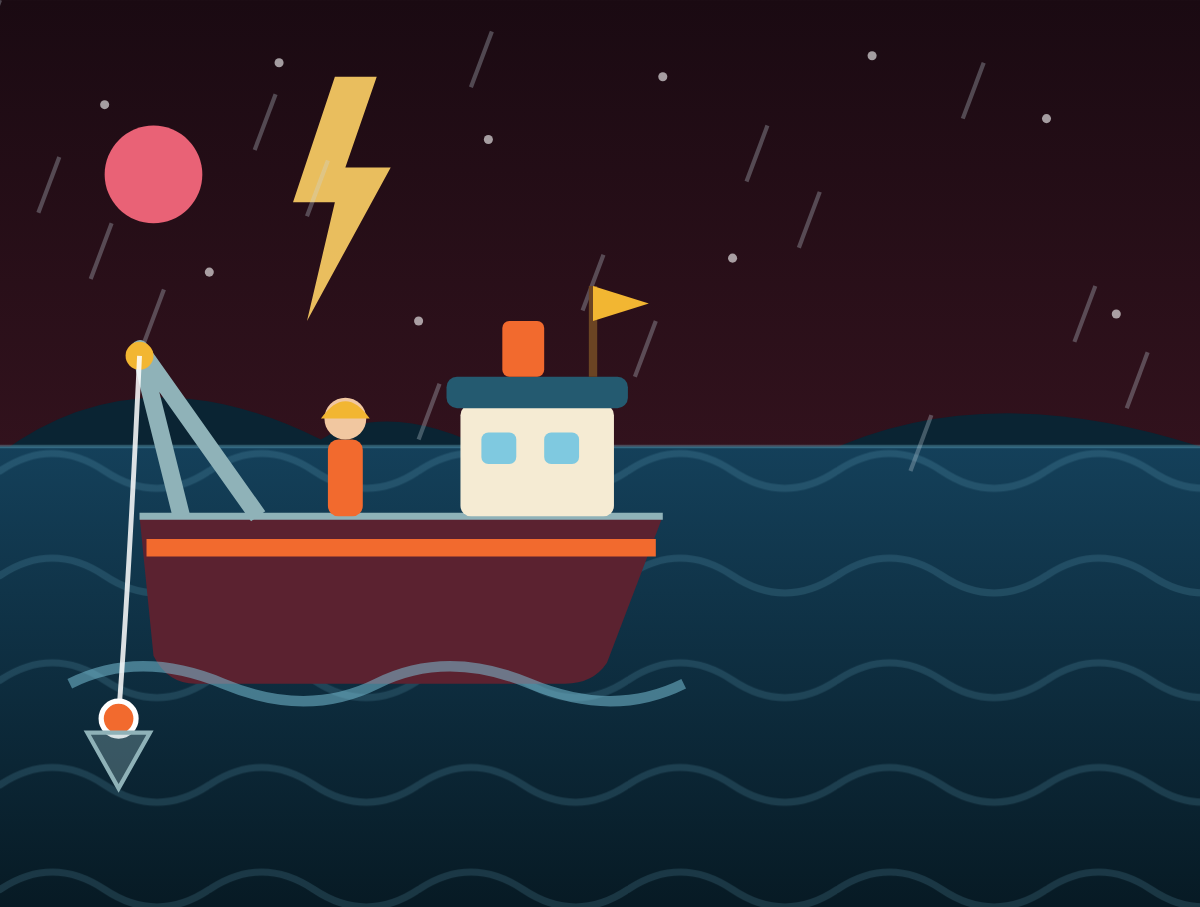
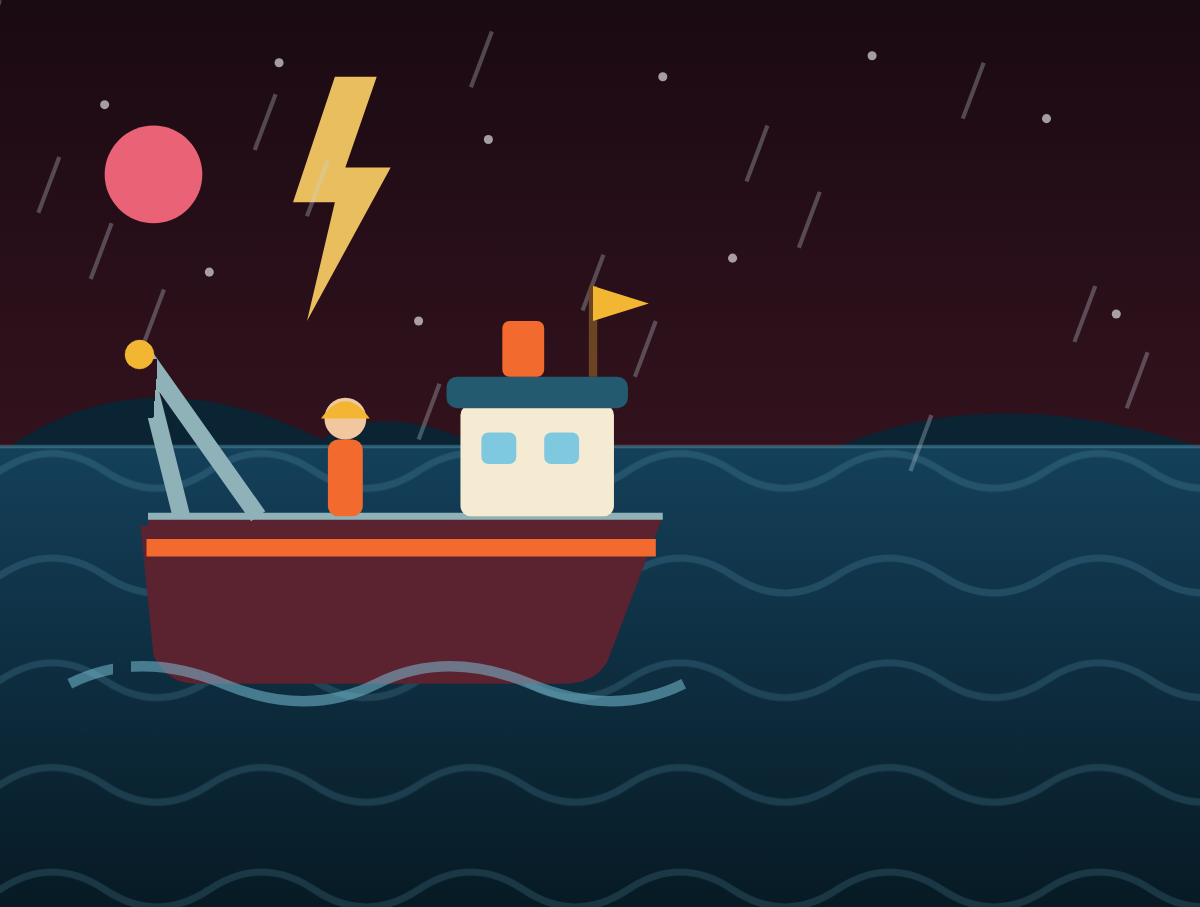
fix: animasi kuis konsisten dan hasil jawaban instan
- Bersihkan properti bawaan dari 7 latar adegan; kail, jala, tombak, tali, dan pukat kini digambar penuh oleh kode.

- Tambah anchor istirahat per adegan sehingga kail menunggu di posisi yang benar sebelum dilempar.

- Kail langsung bergerak saat opsi disentuh; kunci jawaban langsung menampilkan benar atau salah tanpa menunggu animasi.

- Adegan Bubu diratakan ke bawah agar bubu di dasar ilustrasi tidak terpotong ContentScale.Crop.

- Tombak penyelam ikut tertarik bersama ikan saat jawaban benar.

Changed region(s): [[0.0617, 0.3705, 0.1542, 0.8644]]

diff --git a/app/src/main/java/com/example/codefishing/frontend/components/MemancingAdegan.kt b/app/src/main/java/com/example/codefishing/frontend/components/MemancingAdegan.kt
@@ -40,9 +40,11 @@ fun adeganStage(nomor: Int, boss: Boolean): Int = when (jenisAdeganStage(nomor, 
 internal data class TitikAdegan(
     /** Pangkal joran / tangan aktor / asal aksi. */
     val pangkal: Offset,
-    /** Ujung joran di udara. */
+    /** Ujung joran di udara, tempat tali menggantung. */
     val ujung: Offset,
-    /** Titik tempat kail/jala/tombak/ikan berada. */
+    /** Posisi kail dan pelampung saat adegan tenang (belum dilempar). */
+    val istirahat: Offset,
+    /** Titik tempat kail/jala/tombak/ikan berakhir setelah aksi. */
     val target: Offset,
     /** Titik akhir ikan saat berhasil ditangkap. */
     val ikanTujuan: Offset,
@@ -50,57 +52,72 @@ internal data class TitikAdegan(
     val dasarAir: Float,
 )
 
+/**
+ * Semua anchor diukur dari ilustrasi `adegan_*` yang sudah dibersihkan dari
+ * properti bawaan. Jadi tali, pelampung, jala, tombak, dan pukat di bawah ini
+ * adalah satu-satunya properti yang tampil di layar.
+ */
 internal fun titikAdegan(jenis: JenisAdegan): TitikAdegan = when (jenis) {
     JenisAdegan.Kapal -> TitikAdegan(
-        pangkal = Offset(0.235f, 0.630f),
-        // Ujung joran yang sudah ada di ilustrasi, bukan titik di udara.
-        ujung = Offset(0.245f, 0.651f),
+        pangkal = Offset(0.175f, 0.600f),
+        ujung = Offset(0.126f, 0.512f),
+        istirahat = Offset(0.104f, 0.768f),
         target = Offset(0.550f, 0.670f),
-        ikanTujuan = Offset(0.400f, 0.560f),
-        dasarAir = 0.670f,
+        ikanTujuan = Offset(0.225f, 0.590f),
+        dasarAir = 0.496f,
     )
     JenisAdegan.Dermaga -> TitikAdegan(
-        pangkal = Offset(0.178f, 0.560f),
-        // Ujung joran nelayan dermaga pada ilustrasi.
-        ujung = Offset(0.197f, 0.512f),
-        target = Offset(0.560f, 0.690f),
-        ikanTujuan = Offset(0.360f, 0.610f),
-        dasarAir = 0.690f,
+        pangkal = Offset(0.325f, 0.420f),
+        ujung = Offset(0.343f, 0.377f),
+        istirahat = Offset(0.477f, 0.765f),
+        target = Offset(0.633f, 0.684f),
+        ikanTujuan = Offset(0.430f, 0.600f),
+        dasarAir = 0.496f,
     )
     JenisAdegan.PerahuCadik -> TitikAdegan(
-        pangkal = Offset(0.256f, 0.610f),
-        ujung = Offset(0.350f, 0.540f),
-        target = Offset(0.580f, 0.680f),
-        ikanTujuan = Offset(0.340f, 0.590f),
-        dasarAir = 0.680f,
+        // Jala berangkat dari tangan penjala, bukan dari ujung joran.
+        pangkal = Offset(0.257f, 0.507f),
+        ujung = Offset(0.257f, 0.507f),
+        istirahat = Offset(0.257f, 0.507f),
+        target = Offset(0.464f, 0.745f),
+        ikanTujuan = Offset(0.290f, 0.600f),
+        dasarAir = 0.496f,
     )
     JenisAdegan.Selam -> TitikAdegan(
-        pangkal = Offset(0.310f, 0.660f),
-        ujung = Offset(0.310f, 0.660f),
-        target = Offset(0.430f, 0.660f),
-        ikanTujuan = Offset(0.340f, 0.600f),
+        // Mulut tombak di depan penyelam, bukan di tengah badannya.
+        pangkal = Offset(0.360f, 0.657f),
+        ujung = Offset(0.360f, 0.657f),
+        istirahat = Offset(0.360f, 0.657f),
+        target = Offset(0.633f, 0.662f),
+        ikanTujuan = Offset(0.430f, 0.620f),
         dasarAir = 0f,
     )
     JenisAdegan.LubangEs -> TitikAdegan(
-        pangkal = Offset(0.400f, 0.380f),
-        ujung = Offset(0.400f, 0.380f),
-        target = Offset(0.460f, 0.610f),
-        ikanTujuan = Offset(0.460f, 0.500f),
+        pangkal = Offset(0.292f, 0.525f),
+        ujung = Offset(0.266f, 0.500f),
+        // Pelampung istirahat tepat di tengah lubang es.
+        istirahat = Offset(0.203f, 0.700f),
+        target = Offset(0.203f, 0.700f),
+        ikanTujuan = Offset(0.300f, 0.620f),
         dasarAir = 0f,
     )
     JenisAdegan.Bubu -> TitikAdegan(
-        pangkal = Offset(0.420f, 0.180f),
-        ujung = Offset(0.420f, 0.180f),
-        target = Offset(0.363f, 0.752f),
-        ikanTujuan = Offset(0.410f, 0.450f),
+        // Tali bubu menggantung dari ujung joran ke mulut bubu.
+        pangkal = Offset(0.142f, 0.593f),
+        ujung = Offset(0.142f, 0.593f),
+        istirahat = Offset(0.109f, 0.854f),
+        target = Offset(0.109f, 0.854f),
+        ikanTujuan = Offset(0.205f, 0.600f),
         dasarAir = 0f,
     )
     JenisAdegan.Badai -> TitikAdegan(
-        pangkal = Offset(0.330f, 0.480f),
-        ujung = Offset(0.400f, 0.430f),
-        target = Offset(0.580f, 0.660f),
-        ikanTujuan = Offset(0.420f, 0.520f),
-        dasarAir = 0.660f,
+        // Pukat ditebar dari ujung boom, bukan dari tengah kapal.
+        pangkal = Offset(0.111f, 0.386f),
+        ujung = Offset(0.111f, 0.386f),
+        istirahat = Offset(0.111f, 0.386f),
+        target = Offset(0.600f, 0.728f),
+        ikanTujuan = Offset(0.260f, 0.600f),
+        dasarAir = 0.496f,
     )
 }
 
@@ -110,19 +127,31 @@ internal const val TINGGI_GAMBAR_ADEGAN = 907f
 /**
  * Memetakan fraksi gambar ke koordinat kotak Compose dengan aturan ContentScale.Crop.
  * Dengan begitu anchor tetap berada di tubuh aktor pada semua rasio layar.
+ * [ratakanBawah] dipakai adegan yang objeknya menempel di dasar ilustrasi (bubu),
+ * supaya objek itu tidak ikut terpotong saat kotak lebih pendek dari gambar.
  */
-internal fun titikGambar(fx: Float, fy: Float, lebarKotak: Float, tinggiKotak: Float): Offset {
+internal fun titikGambar(
+    fx: Float,
+    fy: Float,
+    lebarKotak: Float,
+    tinggiKotak: Float,
+    ratakanBawah: Boolean = false,
+): Offset {
     val skala = max(lebarKotak / LEBAR_GAMBAR_ADEGAN, tinggiKotak / TINGGI_GAMBAR_ADEGAN)
     val geserX = (lebarKotak - LEBAR_GAMBAR_ADEGAN * skala) / 2f
-    val geserY = (tinggiKotak - TINGGI_GAMBAR_ADEGAN * skala) / 2f
+    val geserY = if (ratakanBawah) {
+        tinggiKotak - TINGGI_GAMBAR_ADEGAN * skala
+    } else {
+        (tinggiKotak - TINGGI_GAMBAR_ADEGAN * skala) / 2f
+    }
     return Offset(
         geserX + fx * LEBAR_GAMBAR_ADEGAN * skala,
         geserY + fy * TINGGI_GAMBAR_ADEGAN * skala,
     )
 }
 
-/** Durasi aksi "Lempar" per scene, dipakai juga oleh KuisScreen agar animasi
- *  aksi selesai sebelum hasil benar/salah ditampilkan. */
+/** Durasi animasi aksi "Lempar" per adegan. Dipakai MemancingScene agar tempo
+ *  lemparan tiap alat cocok dengan jarak dan jenis aksinya. */
 fun durasiLemparAdegan(jenis: JenisAdegan): Int = when (jenis) {
     JenisAdegan.Selam -> 950
     JenisAdegan.LubangEs -> 1150

diff --git a/app/src/main/java/com/example/codefishing/frontend/screens/KuisScreen.kt b/app/src/main/java/com/example/codefishing/frontend/screens/KuisScreen.kt
@@ -56,7 +56,6 @@ import com.example.codefishing.frontend.components.KodeBlok
 import com.example.codefishing.frontend.components.MemancingScene
 import com.example.codefishing.frontend.components.JenisAdegan
 import com.example.codefishing.frontend.components.adeganStage
-import com.example.codefishing.frontend.components.durasiLemparAdegan
 import com.example.codefishing.frontend.components.gambarIkan
 import com.example.codefishing.frontend.components.jenisAdeganStage
 import com.example.codefishing.core.db.IkanEntity
@@ -65,7 +64,6 @@ import com.example.codefishing.ui.theme.LocalWarna
 import com.example.codefishing.frontend.components.TombolSekunder
 import com.example.codefishing.frontend.components.TombolUtama
 import com.example.codefishing.pemula.PilihanKuis
-import kotlinx.coroutines.delay
 import kotlinx.coroutines.launch
 
 @OptIn(ExperimentalMaterial3Api::class)
@@ -127,7 +125,6 @@ fun KuisScreen(nav: AppNavigator, padding: PaddingValues, stagePaksa: Int? = nul
     }
     var jawabanBenar by remember(d) { mutableStateOf(sesiTersimpan?.jawabanBenar ?: false) }
     var menyimpan by remember(d) { mutableStateOf(false) }
-    var menungguAksi by remember(d) { mutableStateOf(false) }
     var menyelesaikan by remember(d) { mutableStateOf(false) }
 
     /** Menyimpan stage terakhir + seluruh isi sesi agar bisa dilanjutkan nanti. */
@@ -163,7 +160,7 @@ fun KuisScreen(nav: AppNavigator, padding: PaddingValues, stagePaksa: Int? = nul
 
     val soal = daftarSoal[indeks]
     val terkunci = terpilih != null
-    val selesaiSoal = terkunci && !menungguAksi
+    val selesaiSoal = terkunci
     val jenisAdegan = jenisAdeganStage(d.stage.nomor, d.stage.tipe == "boss")
 
     // Suara aksi sesuai adegan: cipratan hanya untuk aksi di permukaan air.
@@ -179,45 +176,33 @@ fun KuisScreen(nav: AppNavigator, padding: PaddingValues, stagePaksa: Int? = nul
     /**
      * Mengunci jawaban SETELAH dikonfirmasi pemain. Hanya di sini skor, combo, XP,
      * umpan, dan riwayat Room berubah — menekan opsi saja tidak menyentuh apa pun.
+     * Hasil benar/salah tampil seketika; animasi hasil berjalan tanpa menahan UI.
      */
     fun kunciJawaban(pilihan: PilihanKuis, posisi: Int) {
         if (menyimpan || terpilih != null) return
         terpilih = posisi
         jawabanBenar = pilihan.benar
         menyimpan = true
-        menungguAksi = true
-        // Animasi aksi baru dimulai setelah jawaban benar-benar dikunci.
-        fase = FasePancing.Lempar
+        // Kail sudah melayang sejak opsi disentuh, jadi kunci langsung memutuskan hasil.
+        fase = if (pilihan.benar) FasePancing.Dapat else FasePancing.Lepas
         if (pengaturan?.haptik != 0) {
             haptik.performHapticFeedback(
                 if (pilihan.benar) HapticFeedbackType.LongPress else HapticFeedbackType.TextHandleMove,
             )
         }
-        val faseHasil = if (pilihan.benar) FasePancing.Dapat else FasePancing.Lepas
         if (pilihan.benar) {
             benar++
             combo++
             comboMaks = maxOf(comboMaks, combo)
             xp += soal.poin
-            scope.launch {
-                c.game.catatJawaban(soal.id, pilihan.id, true, combo)
-                menyimpan = false
-                delay(durasiLemparAdegan(jenisAdegan).toLong())
-                c.audio.play(Sfx.Benar)
-                fase = faseHasil
-                menungguAksi = false
-            }
         } else {
             salah++
             combo = 0
-            scope.launch {
-                c.game.catatJawaban(soal.id, pilihan.id, false, 0)
-                menyimpan = false
-                delay(durasiLemparAdegan(jenisAdegan).toLong())
-                c.audio.play(Sfx.Salah)
-                fase = faseHasil
-                menungguAksi = false
-            }
+        }
+        scope.launch {
+            c.game.catatJawaban(soal.id, pilihan.id, pilihan.benar, if (pilihan.benar) combo else 0)
+            c.audio.play(if (pilihan.benar) Sfx.Benar else Sfx.Salah)
+            menyimpan = false
         }
         // Simpan jawaban terkunci + skor berjalan agar sesi bisa dilanjutkan.
         simpanSesi()
@@ -334,9 +319,10 @@ fun KuisScreen(nav: AppNavigator, padding: PaddingValues, stagePaksa: Int? = nul
                             if (pengaturan?.haptik != 0) {
                                 haptik.performHapticFeedback(HapticFeedbackType.TextHandleMove)
                             }
-                            // Belum dikunci: hanya membuka lembar konfirmasi,
-                            // animasi aksi baru berjalan saat jawaban dikunci.
+                            // Opsi disentuh: kail langsung dilempar. Lembar konfirmasi
+                            // hanya meminta pemain mengunci jawaban.
                             kandidat = i
+                            fase = FasePancing.Lempar
                         }
                         .padding(14.dp),
                     verticalAlignment = Alignment.CenterVertically,
@@ -400,7 +386,7 @@ fun KuisScreen(nav: AppNavigator, padding: PaddingValues, stagePaksa: Int? = nul
                     Text("Benar $benar · Salah $salah · Combo $combo", style = MaterialTheme.typography.labelMedium, color = MaterialTheme.colorScheme.onSurfaceVariant)
                 }
                 Text(
-                    "Ketuk jawaban, lalu konfirmasi untuk menguncinya.",
+                    "Ketuk jawaban untuk melempar kail, lalu konfirmasi untuk menguncinya.",
                     style = MaterialTheme.typography.labelSmall,
                     color = MaterialTheme.colorScheme.onSurfaceVariant,
                 )

diff --git a/app/src/main/java/com/example/codefishing/frontend/components/MemancingScene.kt b/app/src/main/java/com/example/codefishing/frontend/components/MemancingScene.kt
@@ -154,12 +154,16 @@ fun MemancingScene(
         BoxWithConstraints(Modifier.fillMaxSize()) {
             val w = constraints.maxWidth.toFloat()
             val h = constraints.maxHeight.toFloat()
-            val pangkal = titikGambar(titik.pangkal.x, titik.pangkal.y, w, h)
-            val ujung = titikGambar(titik.ujung.x, titik.ujung.y, w, h)
-            val target = titikGambar(titik.target.x, titik.target.y, w, h)
-            val ikanTujuan = titikGambar(titik.ikanTujuan.x, titik.ikanTujuan.y, w, h)
+            // Adegan Bubu menaruh bubu di dasar ilustrasi; ratakan gambar ke bawah
+            // agar bubu tetap masuk kotak saat rasio layar memotong bagian atas/bawah.
+            val ratakanBawah = jenis == JenisAdegan.Bubu
+            val pangkal = titikGambar(titik.pangkal.x, titik.pangkal.y, w, h, ratakanBawah)
+            val ujung = titikGambar(titik.ujung.x, titik.ujung.y, w, h, ratakanBawah)
+            val istirahat = titikGambar(titik.istirahat.x, titik.istirahat.y, w, h, ratakanBawah)
+            val target = titikGambar(titik.target.x, titik.target.y, w, h, ratakanBawah)
+            val ikanTujuan = titikGambar(titik.ikanTujuan.x, titik.ikanTujuan.y, w, h, ratakanBawah)
             val dasarAir = if (titik.dasarAir > 0f) {
-                titikGambar(0f, titik.dasarAir, w, h).y
+                titikGambar(0f, titik.dasarAir, w, h, ratakanBawah).y
             } else {
                 h * 0.62f
             }
@@ -193,10 +197,13 @@ fun MemancingScene(
             val memakaiRod = memakaiJoran(jenis)
             val bobber: Offset? = when {
                 !memakaiRod -> null
-                fase == FasePancing.Diam -> Offset(ujung.x, ujung.y + 26f * px)
+                // Saat tenang tali sudah terpasang dan pelampung mengapung.
+                fase == FasePancing.Diam -> istirahat
                 fase == FasePancing.Lempar -> {
-                    val x = lerpF(ujung.x, target.x, easedLempar)
-                    val y = lerpF(ujung.y, target.y, easedLempar) -
+                    // Lempar dimulai dari posisi istirahat, bukan dari ujung joran,
+                    // supaya kail terlihat terangkat lalu melesat ke target.
+                    val x = lerpF(istirahat.x, target.x, easedLempar)
+                    val y = lerpF(istirahat.y, target.y, easedLempar) -
                         h * 0.18f * 4f * easedLempar * (1f - easedLempar)
                     if (tLempar >= 0.999f) Offset(target.x, target.y + bobPx) else Offset(x, y)
                 }
@@ -211,7 +218,7 @@ fun MemancingScene(
                 )
             }
             val bobberAlpha = when {
-                !memakaiRod || fase == FasePancing.Diam -> 0f
+                !memakaiRod -> 0f
                 fase == FasePancing.Lepas -> (1f - tLepas).coerceIn(0f, 1f)
                 else -> 1f
             }
@@ -251,10 +258,13 @@ fun MemancingScene(
             } else {
                 0f
             }
-            val tombakUjung = if (fase == FasePancing.Lepas) {
-                target + (target - pangkal) * (0.55f * tLepas)
-            } else {
-                target
+            val tombakUjung = when (fase) {
+                // Meleset: tombak meluncur melewati ikan lalu memudar.
+                FasePancing.Lepas -> target + (target - pangkal) * (0.55f * tLepas)
+                // Berhasil: tombak ikut ditarik bersama ikan ke arah penyelam,
+                // jadi tidak ada tombak menggantung di air setelah ikan diangkat.
+                FasePancing.Dapat -> if (tIkan > 0.04f) Offset(fishX, fishY) else target
+                else -> target
             }
 
             // --- Aksi tali lubang es ----------------------------------------------
@@ -426,7 +436,13 @@ fun MemancingScene(
                         translationY = napasPx + gy * 0.5f
                     },
             ) {
-                Gambar(adegan, null, Modifier.fillMaxSize(), ContentScale.Crop)
+                Gambar(
+                    adegan,
+                    null,
+                    Modifier.fillMaxSize(),
+                    ContentScale.Crop,
+                    perataan = if (ratakanBawah) Alignment.BottomCenter else Alignment.Center,
+                )
 
                 if (varianBoss) {
                     Gambar(Art.hujan_badai, null, Modifier.fillMaxSize().alpha(0.30f), ContentScale.Crop)
@@ -542,7 +558,7 @@ fun MemancingScene(
                                 if (tembakT > 0.02f || fase == FasePancing.Lepas) {
                                     gambarGelembungJejak(
                                         mulai = mulaiTombak,
-                                        selesai = if (fase == FasePancing.Lepas) tombakUjung else target,
+                                        selesai = tombakUjung,
                                         progres = if (fase == FasePancing.Lepas) tLepas else tembakT,
                                         warna = warna.ombak,
                                     )

diff --git a/app/src/main/java/com/example/codefishing/frontend/components/Komponen.kt b/app/src/main/java/com/example/codefishing/frontend/components/Komponen.kt
@@ -37,12 +37,14 @@ fun Gambar(
     skala: ContentScale = ContentScale.Fit,
     warna: Color? = null,
     blendMode: BlendMode = BlendMode.SrcIn,
+    perataan: Alignment = Alignment.Center,
 ) {
     Image(
         painterResource(id),
         contentDescription = deskripsi,
         modifier = modifier,
         contentScale = skala,
+        alignment = perataan,
         colorFilter = warna?.let { ColorFilter.tint(it, blendMode) },
     )
 }
